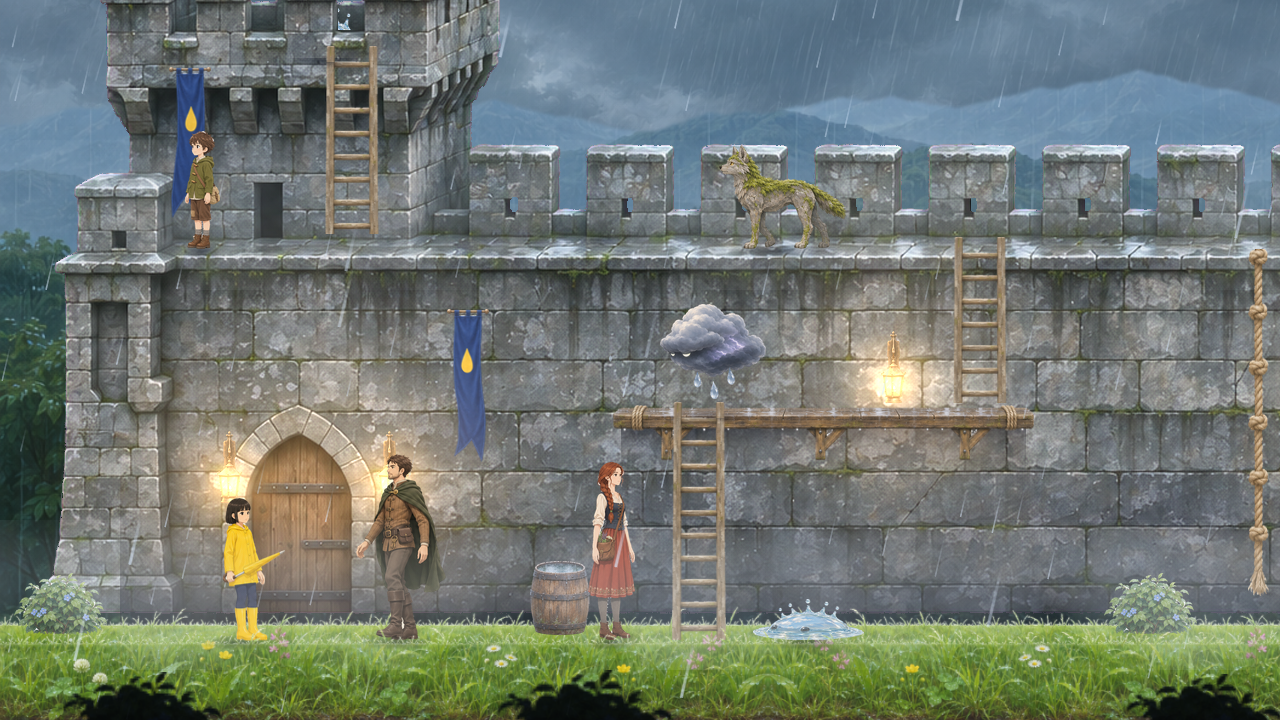
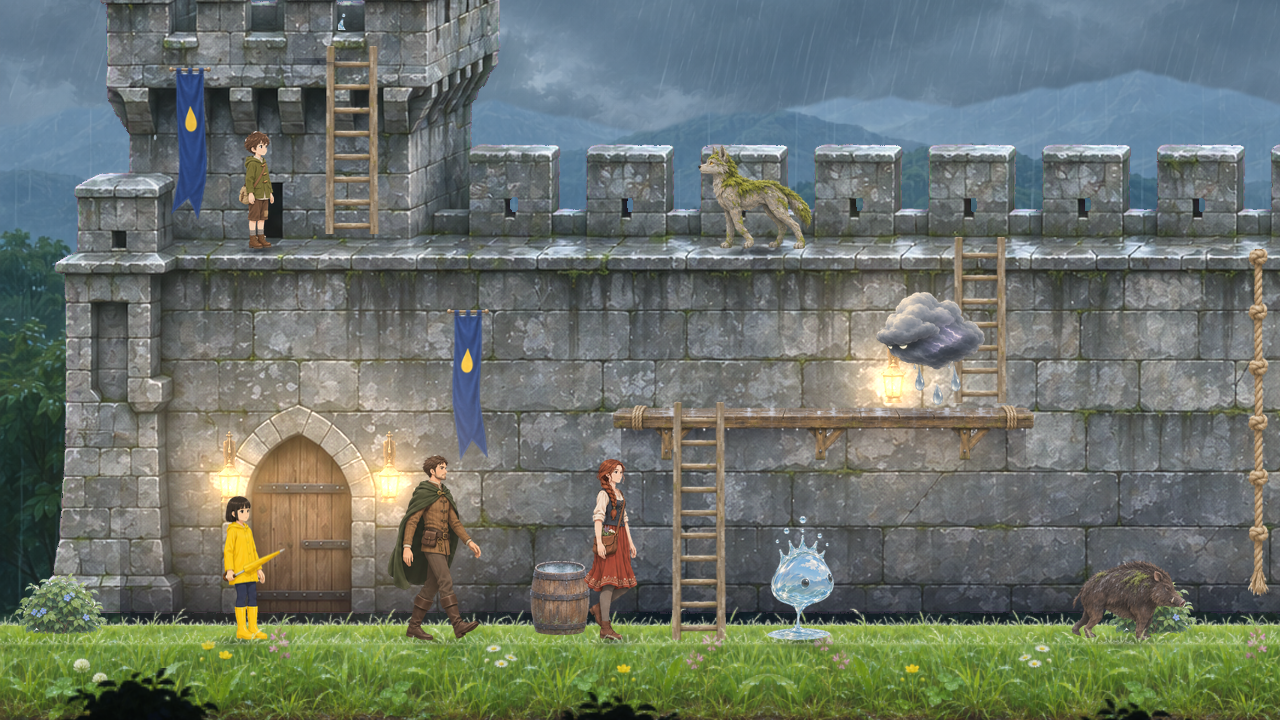
0.30.2: the cut-out leaves no paper at a gap's edge - near-white the AI cut-out sees no figure in, touching what is not figure, peeled off (the guard's walk 14 -> 0 such pixels, the herbalist's 37 -> 1, the white of an eye); the example game's boy and boar drawn again on the four-colour mannequin, e

diff --git a/skills/spritecast/scripts/creature.py b/skills/spritecast/scripts/creature.py
@@ -372,8 +372,8 @@ def key(im, ai=None):
     """what of a picture is the figure. The paper's white joined to the picture's edge is not (so a spray of drops, a wisp of mist, a scattering of leaves all
     stay - an AI cut-out alone drops such loose pieces); and the paper SHUT IN between its limbs is not either - told from white clothes and pale coats by the AI
     cut-out (BiRefNet, as for a character's frames): paper is the white where IT sees no figure. A herbalist stood with a white panel between her legs, a stag walked
-    with one between its forelegs, while this was the white key alone. `ai`: () → the AI cut-out of `im` (kept from an earlier `cut`: ai_mask), asked for only
-    when some white of 12 px or more is shut in - with none, the AI could take nothing away. SPRITECAST_KEY=white: only white as pure as the paper is taken
+    with one between its forelegs, while this was the white key alone. `ai`: () → the AI cut-out of `im` (kept from an earlier `cut`: ai_mask), asked for
+    whenever any near-white is shut in. SPRITECAST_KEY=white: only white as pure as the paper is taken
     for paper. With no onnxruntime it stops (CL.NO_ORT), as a character's frames do: it fell back on the white key by itself and nobody knew."""
     m = CL.white_key(im); x = np.asarray(im.convert('RGB')).astype(int)
     if os.environ.get('SPRITECAST_KEY') == 'white':
@@ -381,9 +381,20 @@ def key(im, ai=None):
         return m & ~big[hl]
     if not CL._have_ort(): sys.exit(CL.NO_ORT.format(py=sys.executable))
     paper = (x.min(2) > 232) & (x.max(2) - x.min(2) < 18); hl, hn = ndimage.label(m & paper)                  # (paper is white_key's own near-white: m & paper is
-    if not hn or np.bincount(hl.ravel())[1:].max() < 12: return m                                             # exactly the white shut in)
-    hl, hn = ndimage.label(m & paper & ~ndimage.binary_dilation(ai() if ai else CL.ai_key(im), iterations=3)); big = np.bincount(hl.ravel()) >= 12; big[0] = False
-    return m & ~big[hl]
+    if not hn: return m                                                                                       # exactly the white shut in)
+    A = ai() if ai else CL.ai_key(im)
+    hl, hn = ndimage.label(m & paper & ~ndimage.binary_dilation(A, iterations=3)); big = np.bincount(hl.ravel()) >= 12; big[0] = False; m = m & ~big[hl]
+    # WHAT IS LEFT OF THE PAPER AT A GAP'S EDGE (the user: "white pixels left on the new guard and the woman" - 14 and 37 of them, between the legs and by an
+    # arm): the patches under 12 px, and the rim the 3 px of grace round the AI's figure kept. Near-white that the AI sees no figure in and that touches what is
+    # not figure is peeled off, three passes; then any speck of near-white wholly outside the AI's figure. White clothes and the white of an eye are inside it.
+    pale = (x.min(2) > 220) & (x.max(2) - x.min(2) < 20)
+    for _ in range(3):
+        rim = m & pale & ~A & ndimage.binary_dilation(~m)
+        if not rim.any(): break
+        m = m & ~rim
+    hl, hn = ndimage.label(m & pale)
+    if hn: inside = ndimage.maximum(A, hl, np.arange(1, hn + 1)) > 0; m = m & ~np.concatenate([[False], ~inside])[hl]
+    return m
 
 
 def cut_out(im, m):

diff --git a/skills/spritecast/reference/creature.md b/skills/spritecast/reference/creature.md
@@ -177,7 +177,10 @@ are still drawn as illustrations.
   beside the drawing (`walk-drawn-ai.png`, `<sheet>-drawn-ai.png`, `design-ai.png`, each cell's box written in; made again when the
   drawing changes), so a second `cut` runs it on nothing. (Run once on a whole walk or sheet, 1536 px squeezed into its 1024, it took
   the pale of a mist for paper: 710 px of holes in the stag's misty sheet.) **onnxruntime is needed**: without it `cut` stops and says so, as a character's `finish`
-  does (`doctor.py`); `SPRITECAST_KEY=white` cuts by pure paper white alone, on purpose.
+  does (`doctor.py`); `SPRITECAST_KEY=white` cuts by pure paper white alone, on purpose. What is left of the paper at a gap's edge - a speck under 12 px, or the
+  rim the AI's 3 px of grace kept - is peeled off too: near-white the AI sees no figure in and that touches what is not figure, three
+  passes, then any near-white speck wholly outside the AI's figure *(the user: white pixels left on the new guard and herbalist - 14 and 37
+  of them; after it 0 and 1, an eye's white)*. The AI is asked for whenever any near-white is shut in (it was only for 12 px or more).
 - A sheet's figures sometimes touch (a spray of drops reaching the next figure): the sheet is then cut at the emptiest columns near
   its quarter lines, and `cut` says so - look at the strip. Very pale things (mist) lose their faintest parts to the white.
 

diff --git a/CHANGELOG.md b/CHANGELOG.md
@@ -3,6 +3,15 @@
 What changed in each version. The version is the one in `.claude-plugin/plugin.json`; Claude Code offers an update when it goes up.
 Changes made because of a report or a request are marked *(feedback)*.
 
+## 0.30.2 — 2026-11-28
+
+- **The cut-out: no paper left at a gap's edge** *(the user: "white pixels left on the new guard and the woman")*: a speck under 12 px, or
+  the rim the AI cut-out's 3 px of grace kept between legs and by an arm, is peeled off when the AI sees no figure in it - the guard 14 →
+  0 near-white pixels, the herbalist 37 → 1 (the white of an eye stays, and white clothes: they are inside the AI's figure).
+- **The rest of the example game's walkers drawn again on the four colours** ($0.12: the boy and the boar), every walk cut again with the
+  new cut-out; the game's play recording filmed again for both READMEs (docs/castle-wall-play.gif, the game's play.gif) and its first
+  scene for docs/side-game.png.
+
 ## 0.30.1 — 2026-11-28
 
 - **Every limb of a mannequin its own colour** *(the user: "arm and leg overlap blue on blue - why one colour?")*: a person's right arm red
